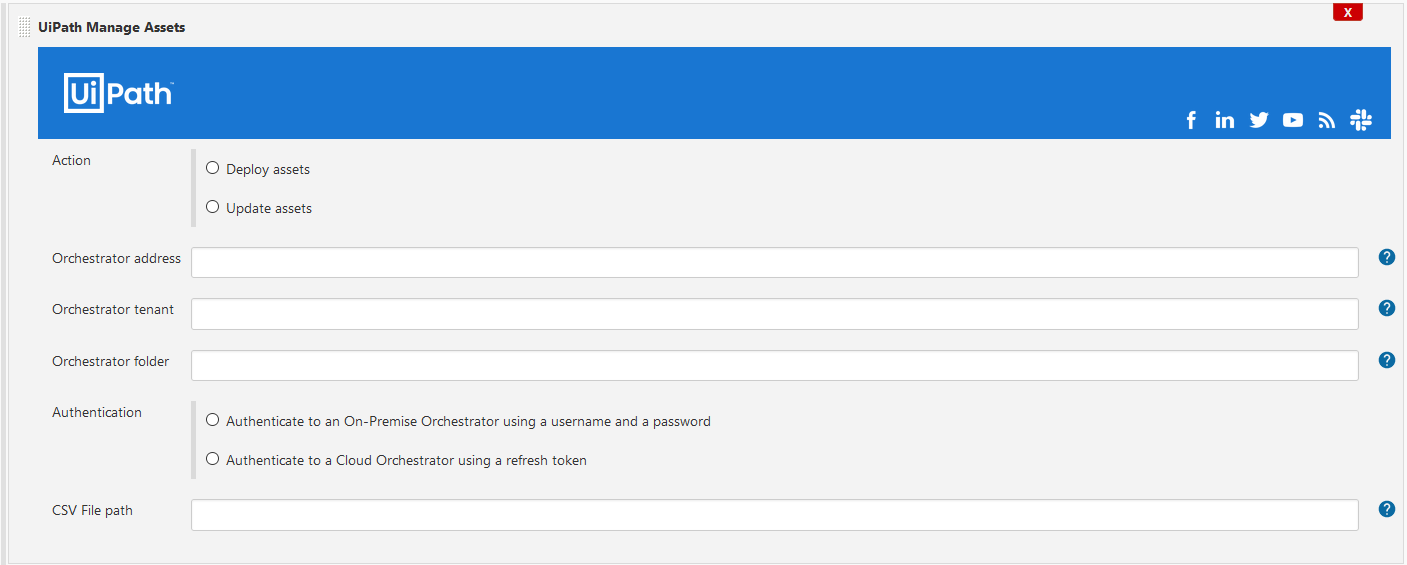
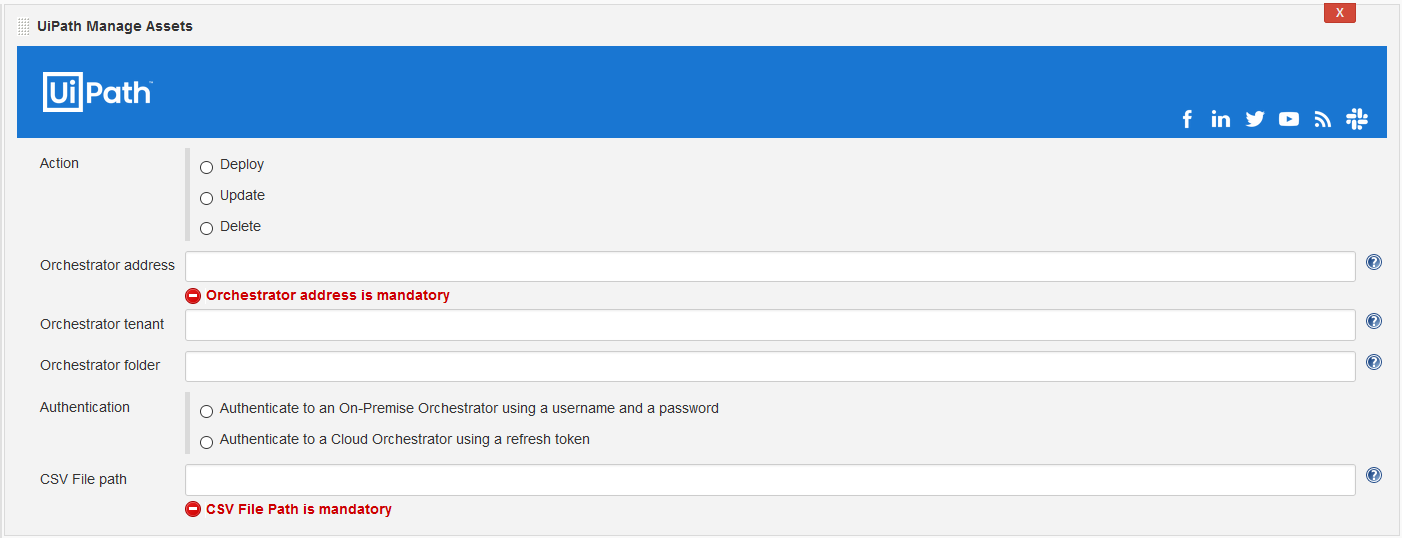
Add Delete

diff --git a/src/main/java/com/uipath/uipathpackage/UiPathAssets.java b/src/main/java/com/uipath/uipathpackage/UiPathAssets.java
@@ -108,12 +108,17 @@ public class UiPathAssets extends Builder implements SimpleBuildStep {
             assetsOptions.setOrchestratorTenant(orchestratorTenantFormatted);
             util.setCredentialsFromCredentialsEntry(credentials, assetsOptions, run);
             String assetAction = assetsAction instanceof DeployAssetsEntry ? "DeployAssetsOptions"
-                               : assetsAction instanceof UpdateAssetsEntry ? "UpdateAssetsOptions" : "DeleteAssetsOptions";
+                               : assetsAction instanceof UpdateAssetsEntry ? "UpdateAssetsOptions"
+                               : assetsAction instanceof DeleteAssetsEntry ? "DeleteAssetsOptions" : "None";
+
+            if (assetAction.equals("None")) {
+                throw new AbortException("Invalid assetAction!");
+            }
 
             int result = util.execute(assetAction, assetsOptions, tempRemoteDir, listener, envVars, launcher, true);
 
             if (result != 0) {
-                throw new AbortException("Failed to run the command");
+                throw new AbortException("Failed to run the command.");
             }
         } catch (URISyntaxException e) {
             e.printStackTrace(logger);
@@ -232,6 +237,10 @@ public class UiPathAssets extends Builder implements SimpleBuildStep {
             Descriptor updateAssetsDescriptor = jenkins.getDescriptor(UpdateAssetsEntry.class);
             if (updateAssetsDescriptor != null) {
                 list.add(updateAssetsDescriptor);
+            }
+            Descriptor deleteAssetsDescriptor = jenkins.getDescriptor(DeleteAssetsEntry.class);
+            if (deleteAssetsDescriptor != null) {
+                list.add(deleteAssetsDescriptor);
             }
             return ImmutableList.copyOf(list);
         }

diff --git a/README.md b/README.md
@@ -49,12 +49,12 @@ separte the two fields.
 
 | Argument                      | Description           |
 | ----------------------------- | -------------         |
-| Action                        | What to do with the provided assets: deploy or update. You can only deploy an asset with the same key (name) once.|
+| Action                        | What to do with the provided assets: deploy, update or delete. You can only deploy an asset with the same key (name) once.|
 | Orchestrator address          | The address of the Orchestrator instance where we'll deploy or update assets. |
 | Orchestrator tenant           | Specify the Orchestrator tenant onto which the assets will be deployed or updated. |
 | Orchestrator folder           | Specify the folder where assets will be deployed or updated. |
 | Authentication                | For authentication towards Orchestrator, credentials have to be created in Jenkins upfront. There are 2 options to authenticate: *(1)* Authenticate to an On-Premise Orchestrator using username and password *(2)* Authenticate to a Cloud Orchestrator using a refresh token (API key). The account name and API key are accessible via Services->API Access (see below for a detailed explanation on how to retrieve this). |
-| CSV File Path                 | The path to the csv file containing assets descriptions. The same file can be used to deploy or update the assets although the `type` isn't required for update. The `type` field can also be empty but the column must be present. |
+| CSV File Path                 | The path to the csv file containing assets descriptions. The same file can be used to deploy or update the assets although the `type` isn't required for update. The `type` field can also be empty but the column must be present. For delete, only the name column is used, so the other columns can be empty but they must be present. |
 
 **📖 Pipeline example:**
 
